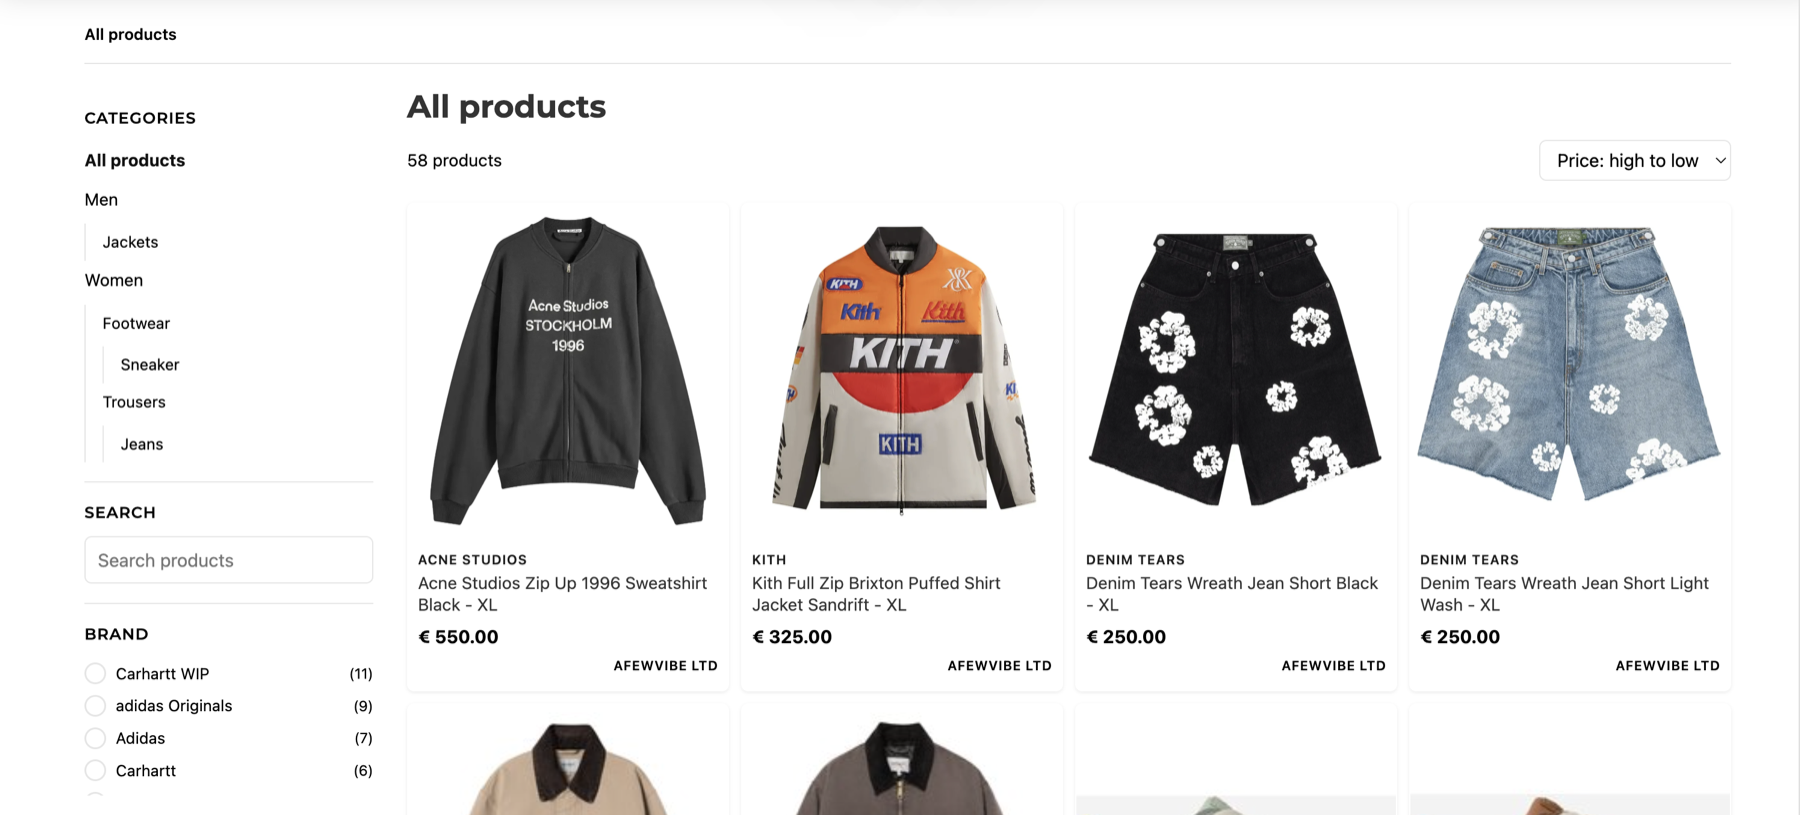
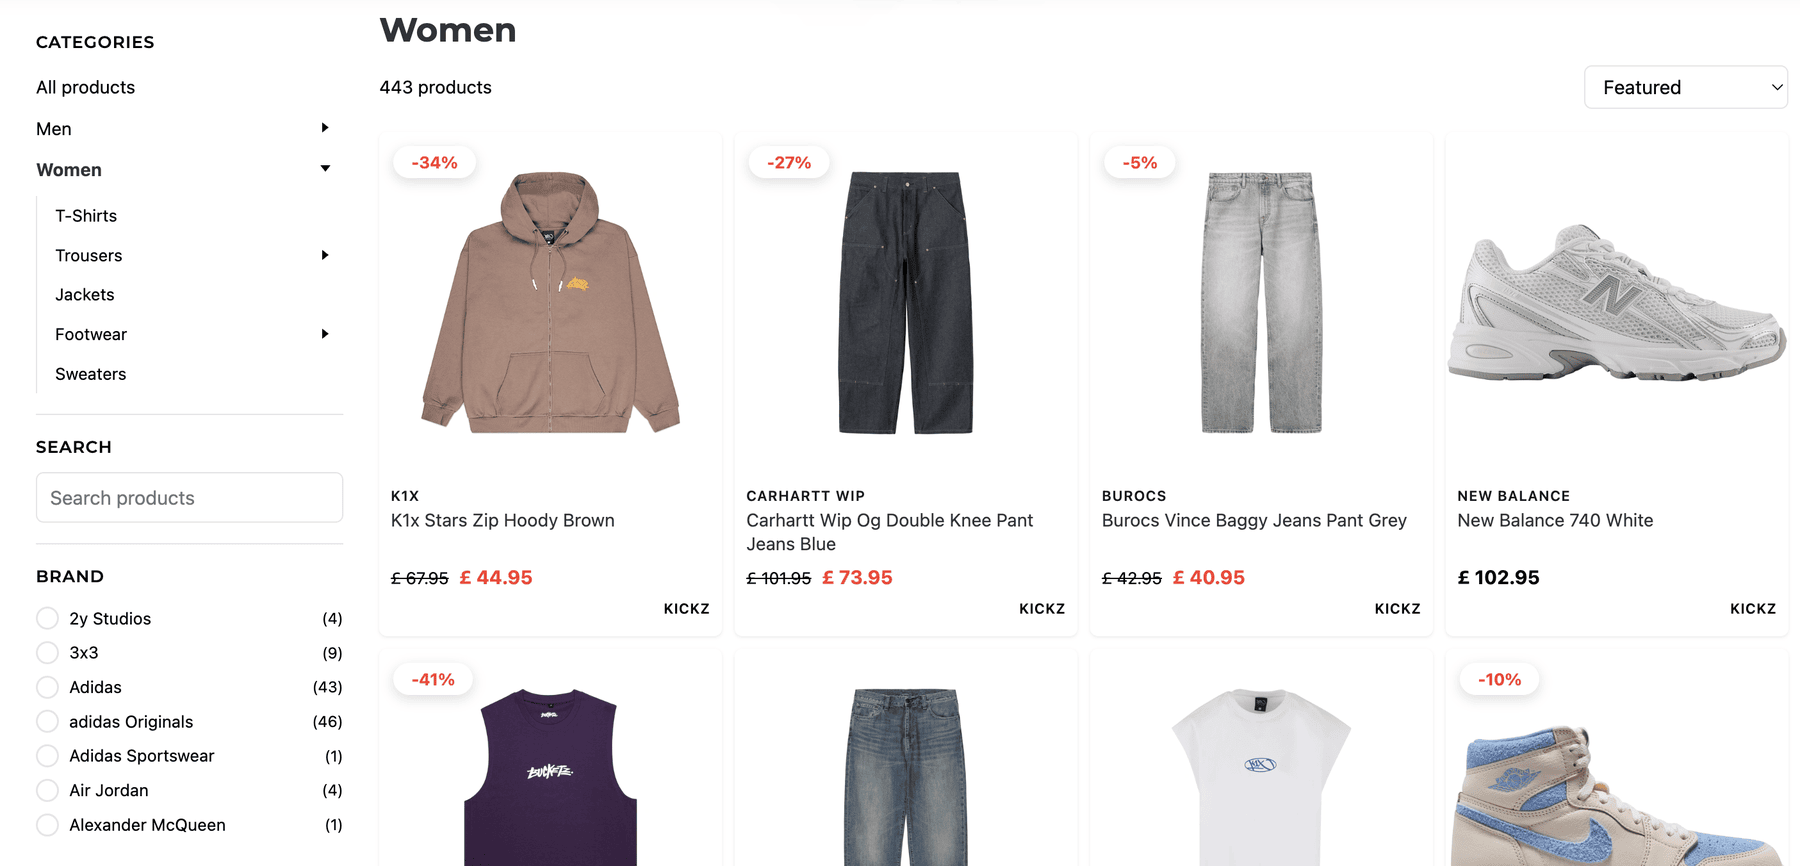
Refresh the storefront screenshot in the shop preview
The preview still showed the May storefront: flat category list, no
discount badges, the old card. The current one has nested categories,
percentage badges with struck-through prices, brand counts and sorting —
and it is 477 KB smaller, which the wp.org ZIP will take.

Screenshots keep their filename when they are refreshed, so the URL now
carries a filemtime cache buster. Without it the browser keeps serving
the old picture until someone hard-reloads.

diff --git a/myfeeds-affiliate-feed-manager/includes/class-feature-previews.php b/myfeeds-affiliate-feed-manager/includes/class-feature-previews.php
@@ -112,6 +112,11 @@ class MyFeeds_Feature_Previews {
      * URL makes render_preview() fall back to the dashed placeholder
      * box, so the page degrades gracefully while screenshots are
      * still being prepared.
+     *
+     * The filemtime cache buster matters here: a refreshed screenshot
+     * keeps its filename, so without it the browser keeps showing the
+     * old picture until someone hard-reloads. Same approach the CSS and
+     * JS in this class already use.
      */
     private function preview_image_url($filename) {
         if (!defined('MYFEEDS_PLUGIN_FILE')) {
@@ -122,7 +127,11 @@ class MyFeeds_Feature_Previews {
         if (!file_exists($absolute)) {
             return '';
         }
-        return plugins_url($relative, MYFEEDS_PLUGIN_FILE);
+        return add_query_arg(
+            'v',
+            filemtime($absolute),
+            plugins_url($relative, MYFEEDS_PLUGIN_FILE)
+        );
     }
 
     private function menu_label_with_badge($label, $tier) {
